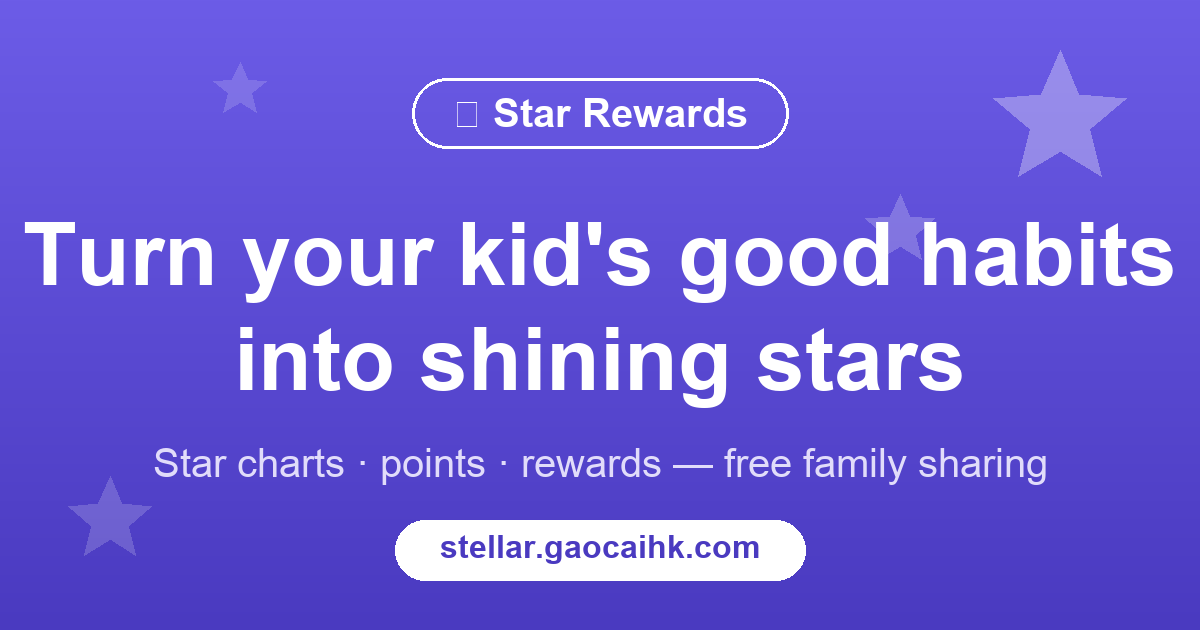
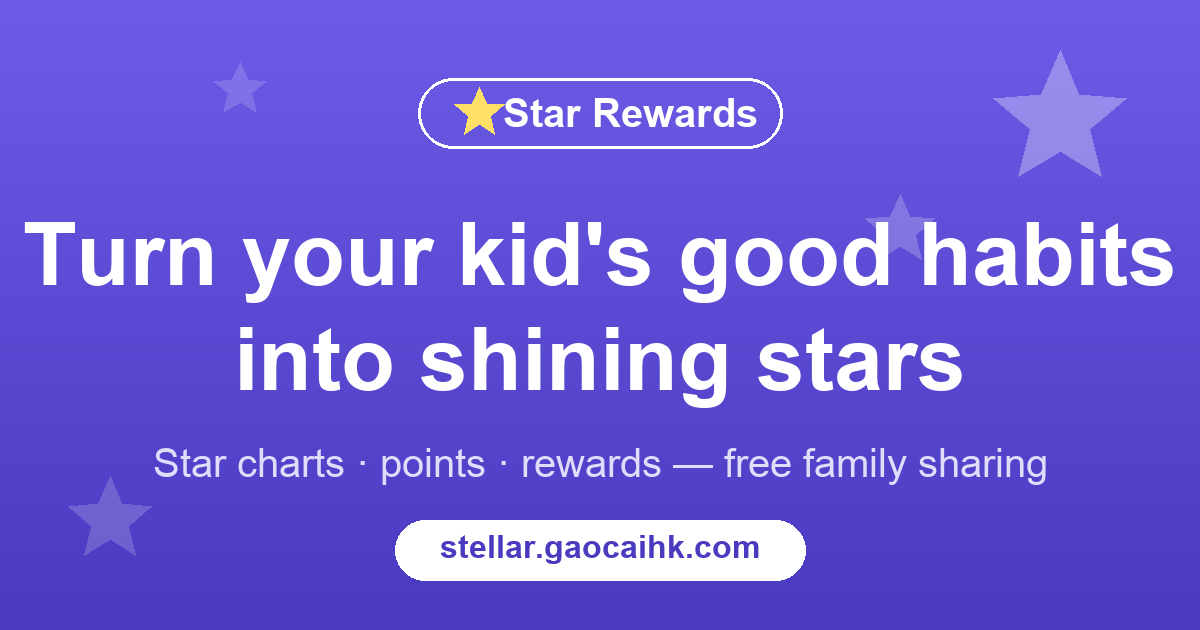
fix(og): draw star shape instead of unicode glyph (tofu in Arial)

Changed region(s): [[0.3392, 0.1206, 0.6783, 0.2413]]

diff --git a/scripts/gen_og_image.py b/scripts/gen_og_image.py
@@ -42,11 +42,18 @@ def center(text, font, y, fill=(255,255,255)):
     tb = d.textbbox((0,0), text, font=font)
     d.text(((W-(tb[2]-tb[0]))/2, y), text, font=font, fill=fill)
 
-# 品牌胶囊
-tb = d.textbbox((0,0), "★ Star Rewards", font=f_brand)
-pw = tb[2]-tb[0]+80
+# 品牌胶囊（星形用画的，Arial 无 ★ 字形会变豆腐块）
+tb = d.textbbox((0,0), "Star Rewards", font=f_brand)
+pw = tb[2]-tb[0]+110
 d.rounded_rectangle([(W-pw)/2, 78, (W+pw)/2, 148], radius=35, outline=(255,255,255), width=3)
-d.text(((W-(tb[2]-tb[0]))/2, 78+(70-(tb[3]-tb[1]))/2-tb[1]), "★ Star Rewards", font=f_brand, fill=(255,255,255))
+sx, sy, sr = (W-pw)/2+62, 113, 26
+pts = []
+for i in range(10):
+    ang = -math.pi/2 + i*math.pi/5
+    r = sr if i % 2 == 0 else sr*0.45
+    pts.append((sx + r*math.cos(ang), sy + r*math.sin(ang)))
+d.polygon(pts, fill=(255, 224, 102))
+d.text(((W-(tb[2]-tb[0]))/2+30, 78+(70-(tb[3]-tb[1]))/2-tb[1]), "Star Rewards", font=f_brand, fill=(255,255,255))
 
 center("Turn your kid's good habits", f_title, 205)
 center("into shining stars", f_title, 310)
